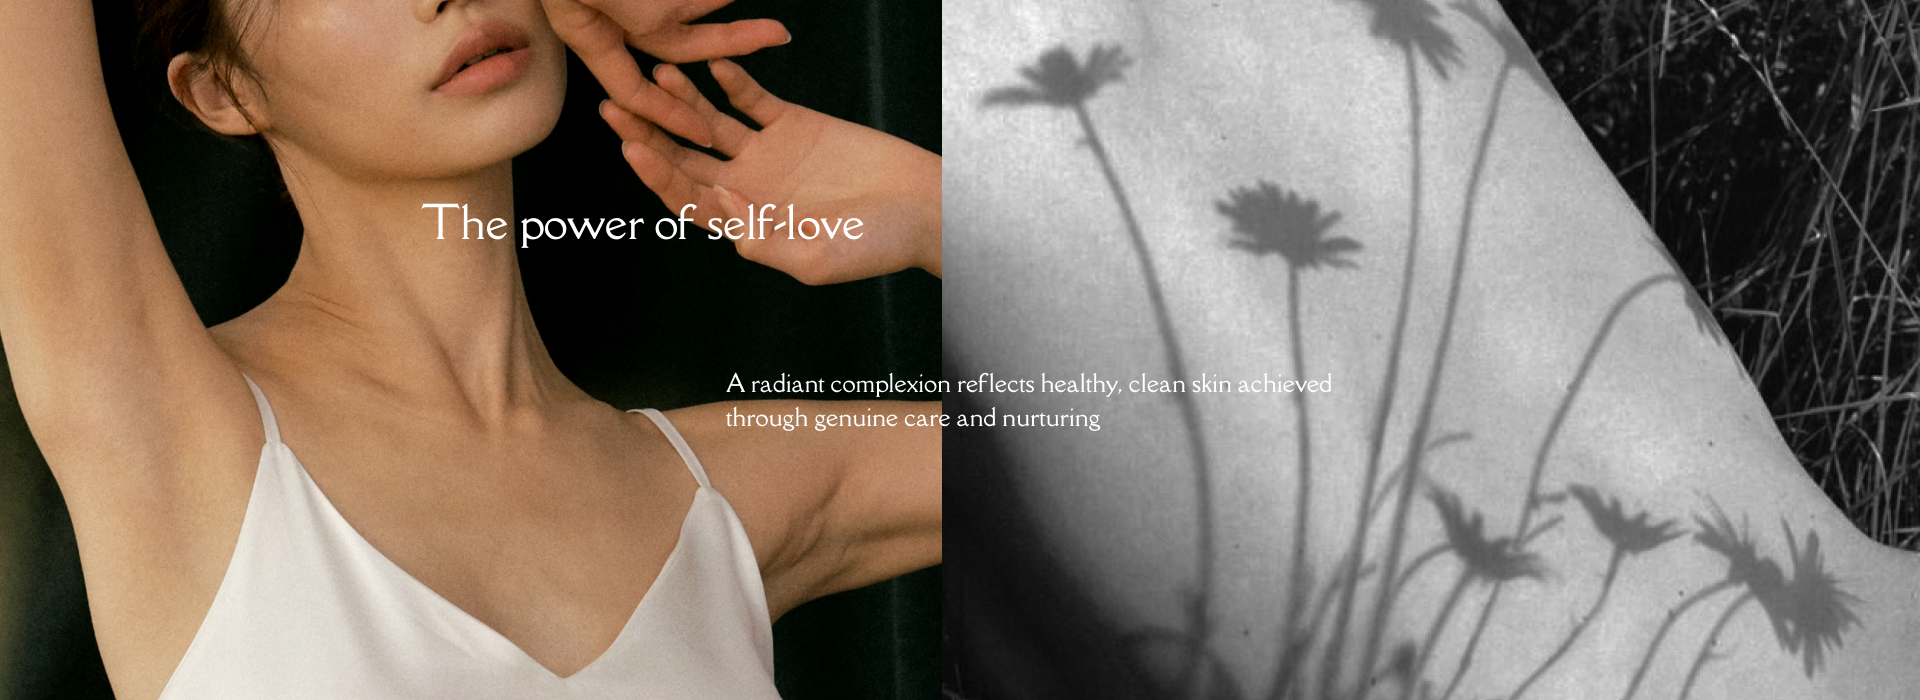
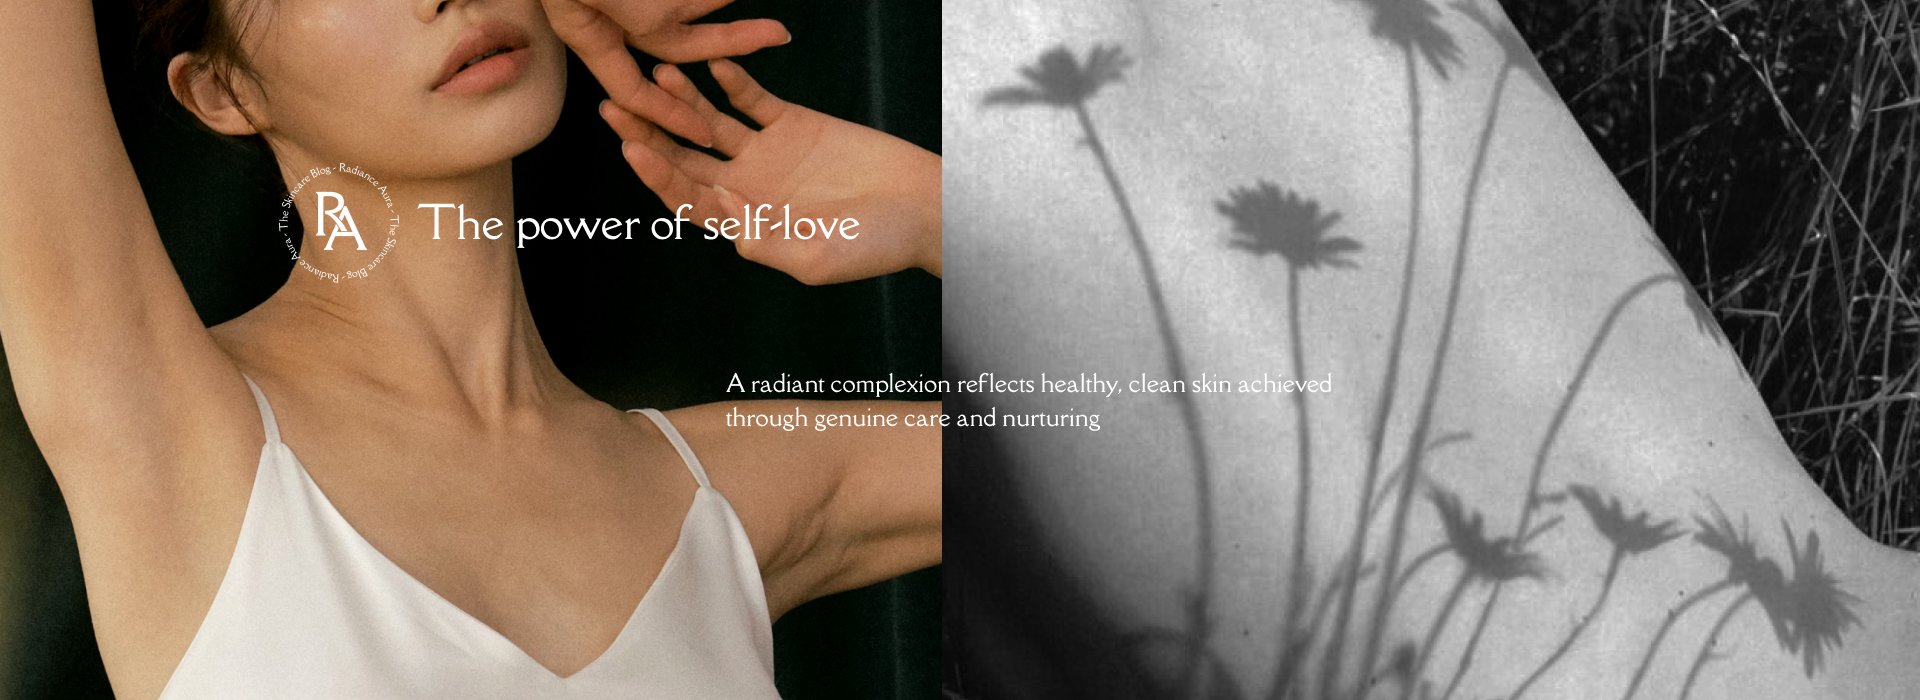
home page img

Changed region(s): [[0.1562, 0.24, 0.4688, 0.36], [0.1562, 0.39, 0.1875, 0.42]]

diff --git a/src/pages/index.js b/src/pages/index.js
@@ -189,7 +189,7 @@ const Home = () => {
                         <div className="flex justify-center">
                             {/*breadcrumb*/}
                             <div className="flex self-center">
-                                <div className="heading_3">Popular Destinations</div>
+                                <div className="heading_3">Skincare Guides & Tutorials</div>
                             </div>
                             {/*Change layout*/}
                             <div className="self-center flex ml-auto">
@@ -216,14 +216,11 @@ const Home = () => {
                                     width={100}/>
                             </div>
                             <div className="category-des-content">
-                                <div className="heading_4 top-destination-title py-3">Drink & Coffee</div>
+                                <div className="heading_4 top-destination-title py-2">How to clean</div>
                                 <div className="flex py-2 sub-title">
                                     <div className="flex">
-                                        <div className="flex article-count pr-1">
+                                        <div className="flex pr-1">
                                             <div>10 Blogs Article</div>
-                                        </div>
-                                        <div className="flex location-count pl-1">
-                                            <div>20 Location</div>
                                         </div>
                                     </div>
                                     <div className="ml-auto">
@@ -244,14 +241,11 @@ const Home = () => {
                                 />
                             </div>
                             <div className="category-des-content">
-                                <div className="heading_4 top-destination-title py-3">Drink & Coffee</div>
+                                <div className="heading_4 top-destination-title py-2">Shopping guide</div>
                                 <div className="flex py-2 sub-title">
                                     <div className="flex">
-                                        <div className="flex article-count pr-1">
+                                        <div className="flex pr-1">
                                             <div>10 Blogs Article</div>
-                                        </div>
-                                        <div className="flex location-count pl-1">
-                                            <div>20 Location</div>
                                         </div>
                                     </div>
                                     <div className="ml-auto">

diff --git a/src/components/layout/header.js b/src/components/layout/header.js
@@ -41,7 +41,7 @@ const Header = () => {
         <div>
             <div className="top-header flex justify-center p-4">
                 <div className="">
-                    <img className="h-5" src="./img/logo.svg" alt="smile" loading="lazy"/>
+                    <img className="h-5" src="./img/logo2.svg" alt="smile" loading="lazy"/>
                 </div>
             </div>
             {/*search popdown*/}
